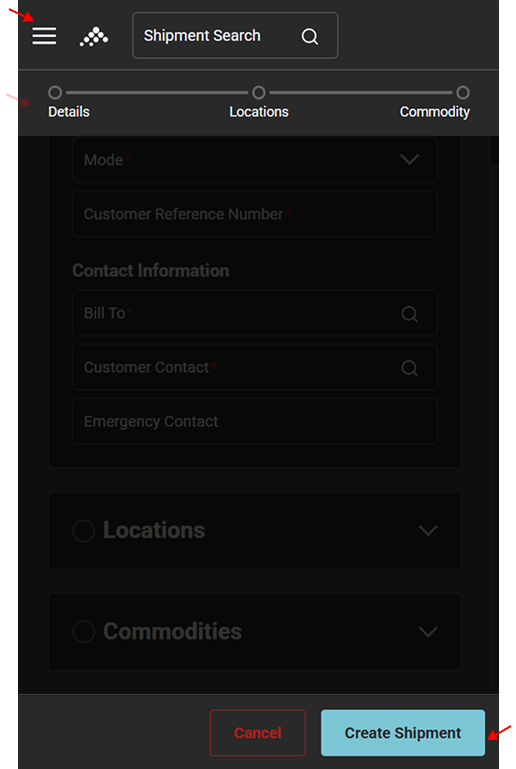
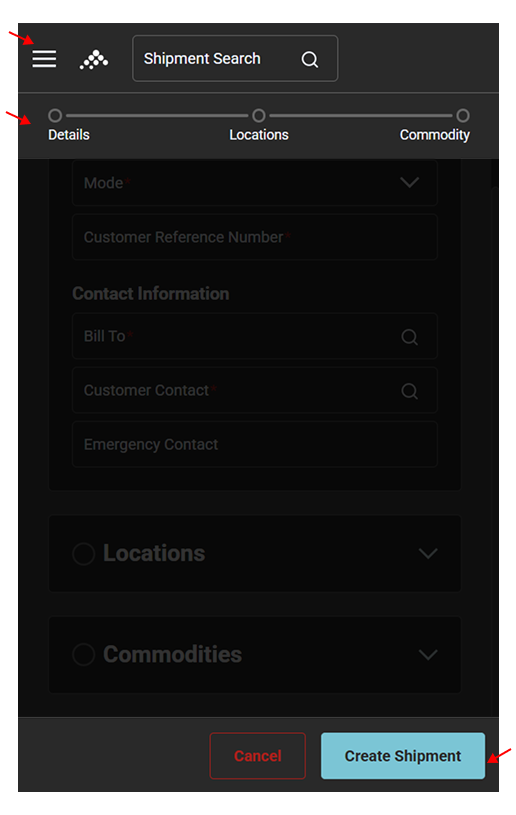
update

diff --git a/css/primary.css b/css/primary.css
@@ -317,7 +317,7 @@ a .three-col-image img {
 
 /* Shipment Widget - Bg Color */
 #shipment-bg {
-	background-color: #041F41;
+	background-color: #017D93;
 }
 
 /* Civic Tech - Bg Color (kept for potential future use; not currently applied to any page) */
